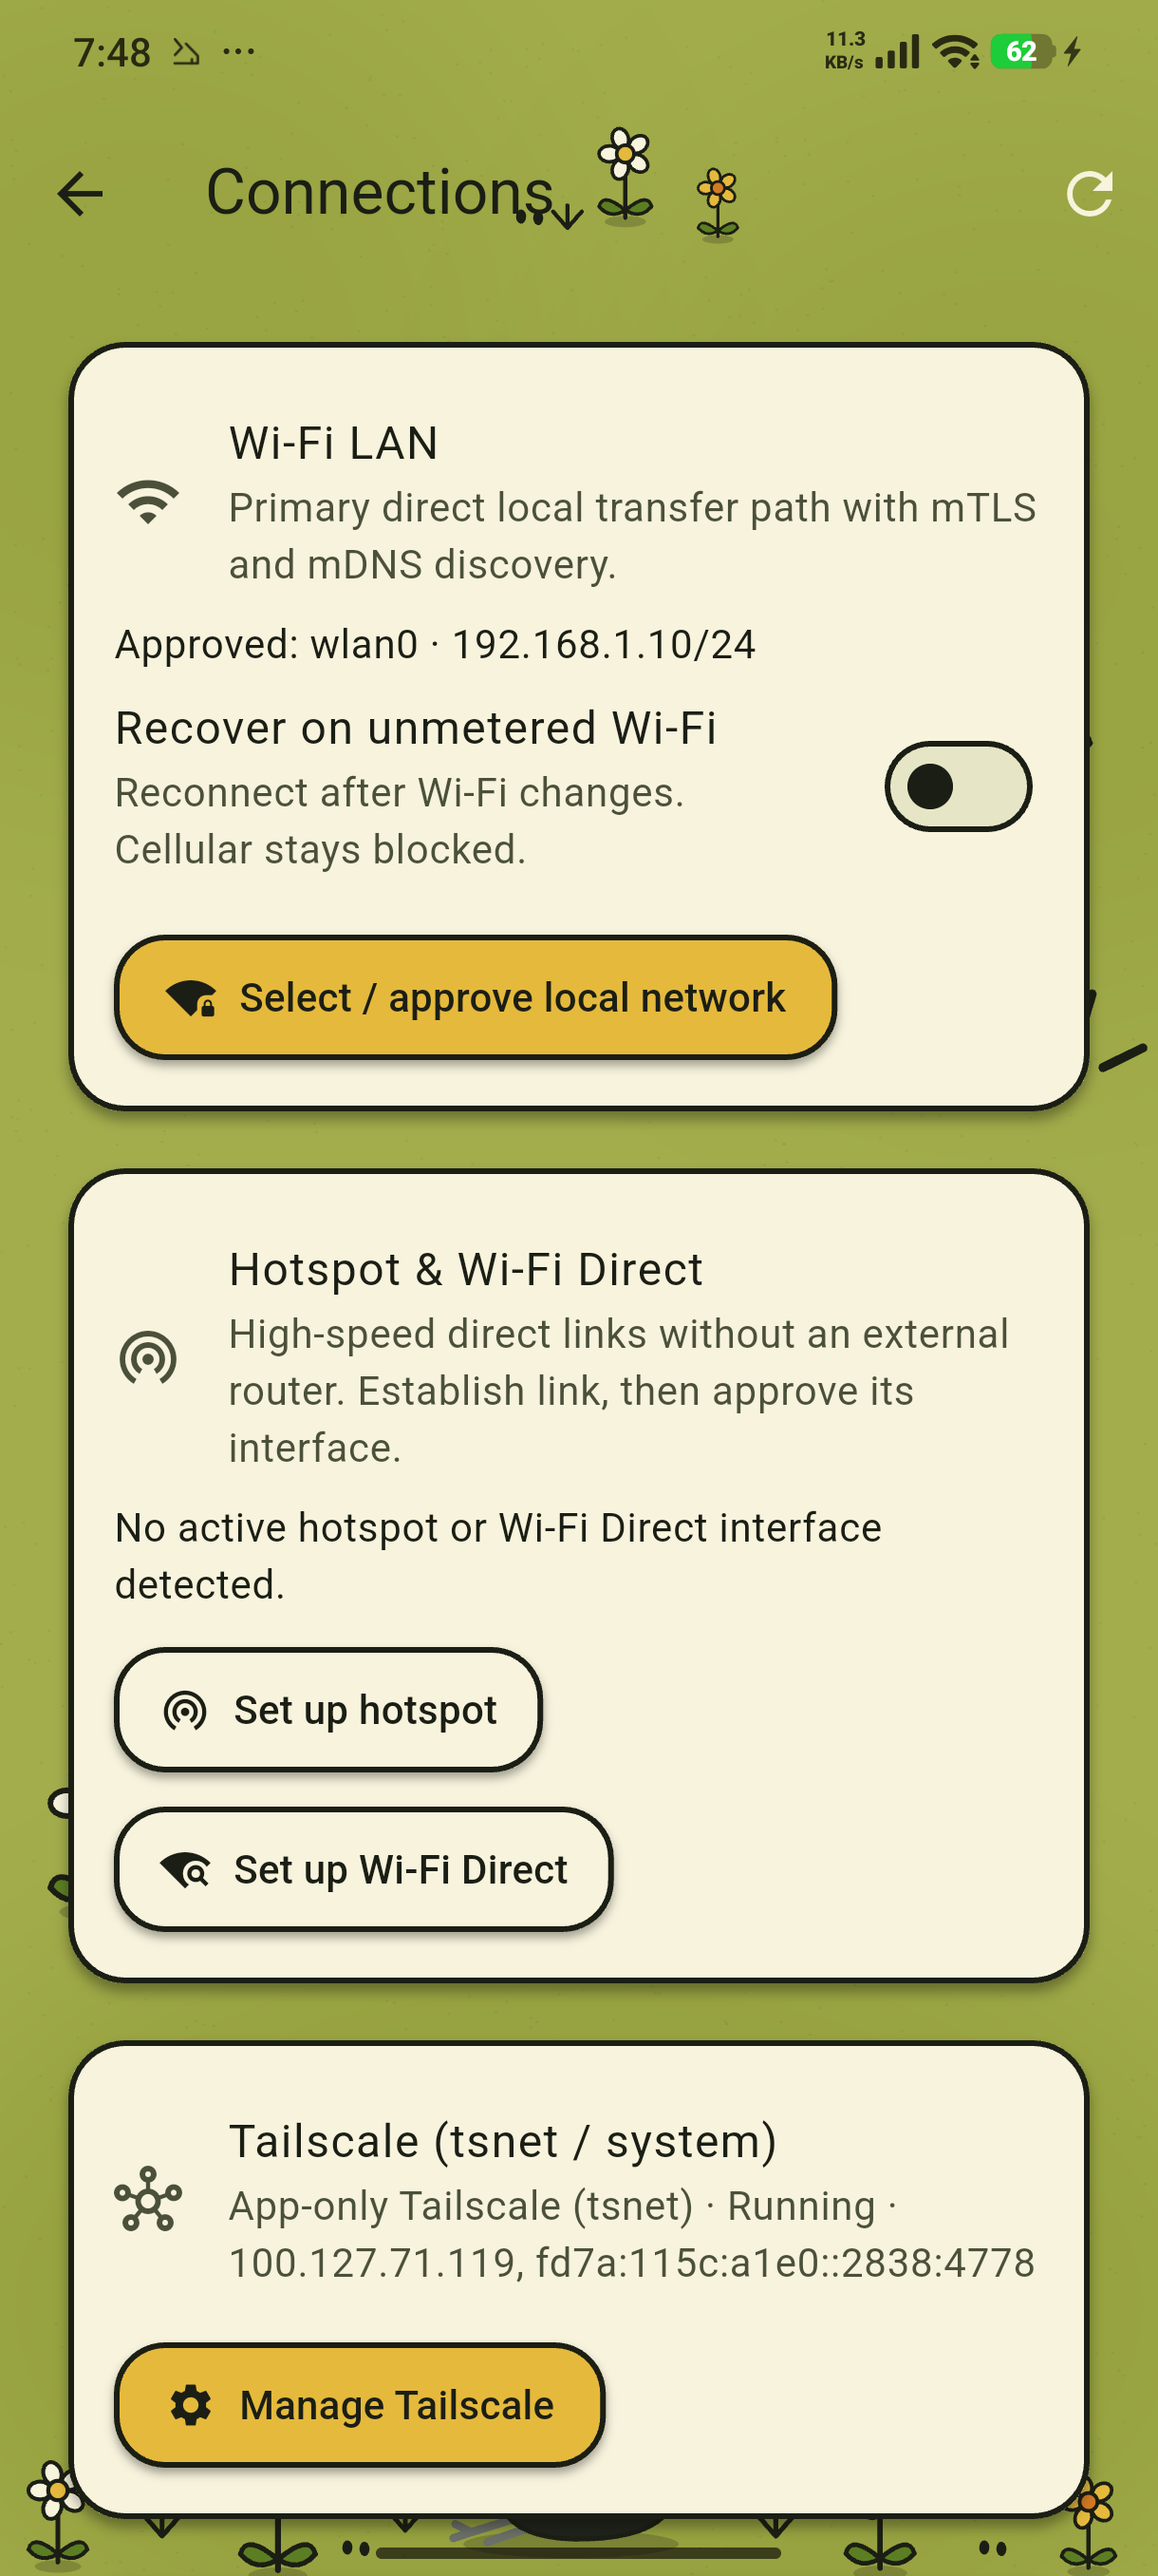
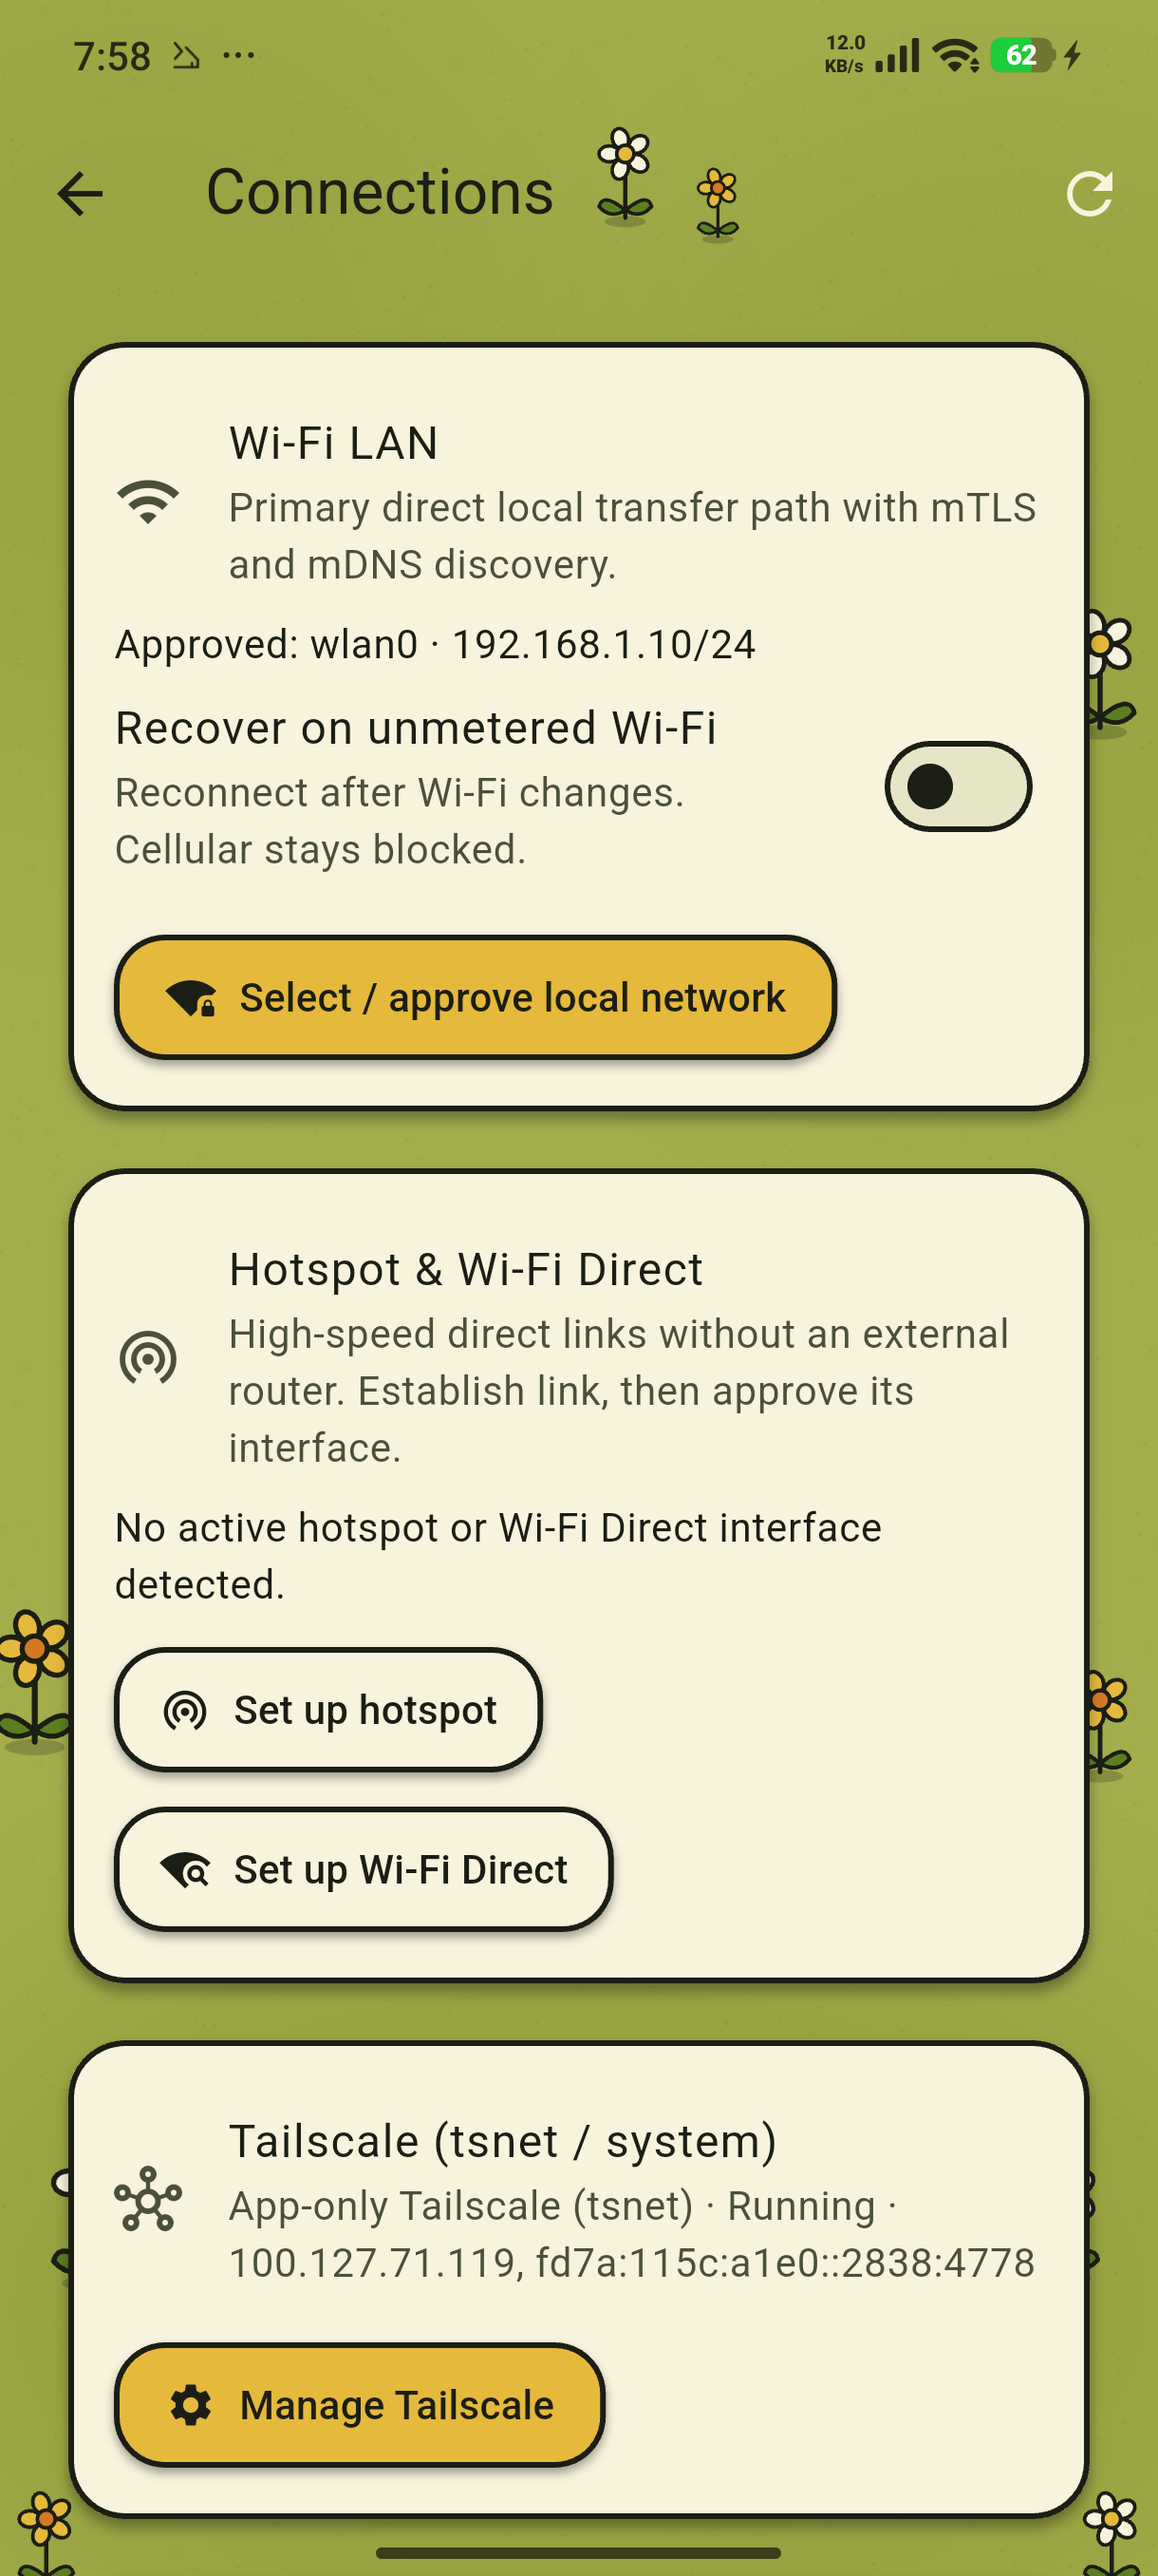
style(matte): keep flowers/bird strictly on background above bottombar with no foreground list widgets or arrows

diff --git a/app/lib/features/appearance.dart b/app/lib/features/appearance.dart
@@ -38,20 +38,6 @@ class AppearanceSurface extends StatelessWidget {
   );
 }
 
-/// Unobstructed illustrated meadow footer for the matte paper theme.
-class MatteMeadowFooter extends StatelessWidget {
-  const MatteMeadowFooter({super.key});
-  @override
-  Widget build(BuildContext context) => const Padding(
-    padding: EdgeInsets.only(top: 8),
-    child: SizedBox(
-      height: 104,
-      width: double.infinity,
-      child: CustomPaint(painter: _MatteMeadowPainter()),
-    ),
-  );
-}
-
 class _EdgeGlow extends CustomPainter {
   const _EdgeGlow({required this.isRed});
   final bool isRed;
@@ -344,48 +330,7 @@ class _MattePaperArt extends CustomPainter {
       canvas.drawLine(Offset(x, y), Offset(x + 0.9, y + 0.15), grain);
     }
 
-    // Crisp, unwashed botanicals with varied sizes behind scrollable lists/cards.
-    _drawGrassTuft(canvas, Offset(size.width * 0.14, size.height * 0.35), 0.95);
-    _drawGrassTuft(canvas, Offset(size.width * 0.85, size.height * 0.34), 0.85);
-    _drawGrassTuft(canvas, Offset(size.width * 0.16, size.height * 0.76), 1.0);
-    _drawGrassTuft(canvas, Offset(size.width * 0.82, size.height * 0.73), 0.9);
-    _drawDots(canvas, Offset(size.width * 0.90, size.height * 0.58));
-    _drawDots(canvas, Offset(size.width * 0.10, size.height * 0.57));
-
-    _drawFlower(
-      canvas,
-      Offset(size.width * 0.10, size.height * 0.28),
-      _MatteMeadowArt.gold,
-      0.78,
-    );
-    _drawFlower(
-      canvas,
-      Offset(size.width * 0.91, size.height * 0.26),
-      _MatteMeadowArt.cream,
-      0.92,
-    );
-    _drawFlower(
-      canvas,
-      Offset(size.width * 0.08, size.height * 0.70),
-      _MatteMeadowArt.cream,
-      1.06,
-    );
-    _drawFlower(
-      canvas,
-      Offset(size.width * 0.89, size.height * 0.67),
-      _MatteMeadowArt.gold,
-      0.72,
-    );
-    _drawComicRays(canvas, Offset(size.width * 0.92, size.height * 0.42), 0.42);
-    _drawCoolCrow(
-      canvas,
-      Offset(size.width * 0.84, size.height * 0.49),
-      0.74,
-    );
-
-    // Topbar flowers tucked cleanly in the open header band (no bird here).
-    _drawGrassTuft(canvas, Offset(size.width * 0.49, 80), 0.72);
-    _drawDots(canvas, Offset(size.width * 0.45, 76));
+    // Topbar background flowers tucked in the open header band.
     _drawFlower(
       canvas,
       Offset(size.width * 0.54, 54),
@@ -399,40 +344,65 @@ class _MattePaperArt extends CustomPainter {
       0.50,
     );
 
-    // Bottombar meadow strip with varied flowers and a single full-sized bird.
-    final bottomGround = size.height - 8;
-    _drawGrassTuft(canvas, Offset(size.width * 0.14, bottomGround - 6), 0.85);
-    _drawGrassTuft(canvas, Offset(size.width * 0.35, bottomGround - 8), 0.80);
-    _drawGrassTuft(canvas, Offset(size.width * 0.67, bottomGround - 6), 0.85);
-    _drawDots(canvas, Offset(size.width * 0.30, bottomGround - 2));
-    _drawDots(canvas, Offset(size.width * 0.85, bottomGround - 2));
-
+    // Outer-edge background flowers framing lists without crossing list text.
     _drawFlower(
       canvas,
-      Offset(size.width * 0.05, bottomGround - 22),
-      _MatteMeadowArt.cream,
-      0.74,
-    );
-    _drawFlower(
-      canvas,
-      Offset(size.width * 0.24, bottomGround - 26),
-      _MatteMeadowArt.gold,
-      0.94,
-    );
-    _drawFlower(
-      canvas,
-      Offset(size.width * 0.76, bottomGround - 24),
+      Offset(size.width * 0.95, size.height * 0.25),
       _MatteMeadowArt.cream,
       0.86,
     );
     _drawFlower(
       canvas,
-      Offset(size.width * 0.94, bottomGround - 18),
+      Offset(size.width * 0.03, size.height * 0.64),
+      _MatteMeadowArt.gold,
+      0.96,
+    );
+    _drawFlower(
+      canvas,
+      Offset(size.width * 0.95, size.height * 0.66),
+      _MatteMeadowArt.gold,
+      0.74,
+    );
+
+    // Background flowers and single bird perched cleanly above the bottom bar.
+    final aboveBottom = size.height - 118;
+    _drawFlower(
+      canvas,
+      Offset(size.width * 0.08, aboveBottom - 20),
+      _MatteMeadowArt.cream,
+      0.98,
+    );
+    _drawFlower(
+      canvas,
+      Offset(size.width * 0.19, aboveBottom - 10),
+      _MatteMeadowArt.gold,
+      0.76,
+    );
+    _drawFlower(
+      canvas,
+      Offset(size.width * 0.92, aboveBottom - 16),
+      _MatteMeadowArt.cream,
+      0.82,
+    );
+    _drawCoolCrow(
+      canvas,
+      Offset(size.width * 0.78, aboveBottom - 14),
+      0.74,
+    );
+
+    // Bottom corner flowers framing the navigation bar (no bird inside bottom bar).
+    _drawFlower(
+      canvas,
+      Offset(size.width * 0.04, size.height - 20),
       _MatteMeadowArt.gold,
       0.68,
     );
-    _drawComicRays(canvas, Offset(size.width * 0.58, bottomGround - 48), 0.42);
-    _drawCoolCrow(canvas, Offset(size.width * 0.50, bottomGround - 20), 0.70);
+    _drawFlower(
+      canvas,
+      Offset(size.width * 0.96, size.height - 20),
+      _MatteMeadowArt.cream,
+      0.68,
+    );
   }
 
   @override
@@ -444,67 +414,6 @@ abstract final class _MatteMeadowArt {
   static const cream = Color(0xfff7f3dd);
   static const gold = Color(0xffe5b93c);
   static const leaf = Color(0xff5c7e22);
-}
-
-class _MatteMeadowPainter extends CustomPainter {
-  const _MatteMeadowPainter();
-
-  @override
-  void paint(Canvas canvas, Size size) {
-    final groundY = size.height - 16;
-    _drawGrassTuft(canvas, Offset(size.width * 0.28, groundY - 10), 1.0);
-    _drawGrassTuft(canvas, Offset(size.width * 0.52, groundY - 18), 0.9);
-    _drawGrassTuft(canvas, Offset(size.width * 0.72, groundY - 14), 0.95);
-    _drawDots(canvas, Offset(size.width * 0.16, groundY - 4));
-    _drawDots(canvas, Offset(size.width * 0.84, groundY - 2));
-
-    _drawFlower(
-      canvas,
-      Offset(size.width * 0.09, groundY - 42),
-      _MatteMeadowArt.cream,
-      1.08,
-    );
-    _drawFlower(
-      canvas,
-      Offset(size.width * 0.20, groundY - 20),
-      _MatteMeadowArt.gold,
-      0.80,
-    );
-    _drawFlower(
-      canvas,
-      Offset(size.width * 0.80, groundY - 24),
-      _MatteMeadowArt.cream,
-      0.92,
-    );
-    _drawFlower(
-      canvas,
-      Offset(size.width * 0.91, groundY - 40),
-      _MatteMeadowArt.gold,
-      1.04,
-    );
-  }
-
-  @override
-  bool shouldRepaint(covariant _MatteMeadowPainter oldDelegate) => false;
-}
-
-void _drawGrassTuft(Canvas canvas, Offset base, double scale) {
-  final p = Paint()
-    ..color = _MatteMeadowArt.ink
-    ..strokeWidth = 2.0 * scale
-    ..strokeCap = StrokeCap.round;
-  canvas.drawLine(base, base + Offset(-7 * scale, -8 * scale), p);
-  canvas.drawLine(base, base + Offset(0, -11 * scale), p);
-  canvas.drawLine(base, base + Offset(7 * scale, -8 * scale), p);
-}
-
-void _drawDots(Canvas canvas, Offset at) {
-  final p = Paint()..color = _MatteMeadowArt.ink;
-  canvas.drawOval(Rect.fromCenter(center: at, width: 3.5, height: 5), p);
-  canvas.drawOval(
-    Rect.fromCenter(center: at + const Offset(6, 0.5), width: 3.5, height: 5),
-    p,
-  );
 }
 
 void _drawFlower(Canvas canvas, Offset center, Color petalColor, double s) {
@@ -653,20 +562,6 @@ void _drawCoolCrow(Canvas canvas, Offset center, double s) {
   canvas.drawLine(const Offset(13, -26), const Offset(16, -21), shine);
   canvas.drawLine(const Offset(27, -25), const Offset(30, -20), shine);
 
-  canvas.restore();
-}
-
-void _drawComicRays(Canvas canvas, Offset origin, double tilt) {
-  final p = Paint()
-    ..color = _MatteMeadowArt.ink
-    ..strokeWidth = 3.2
-    ..strokeCap = StrokeCap.round;
-  canvas.save();
-  canvas.translate(origin.dx, origin.dy);
-  canvas.rotate(tilt);
-  canvas.drawLine(const Offset(-14, -10), const Offset(-26, -22), p);
-  canvas.drawLine(const Offset(-2, -16), const Offset(-4, -32), p);
-  canvas.drawLine(const Offset(10, -10), const Offset(20, -22), p);
   canvas.restore();
 }
 

diff --git a/app/lib/main.dart b/app/lib/main.dart
@@ -603,8 +603,6 @@ class _BridgeHomeState extends State<BridgeHome> {
       const Text(
         'Pulls are one-time downloads. They never register a folder for synchronization.',
       ),
-      if (Theme.of(context).scaffoldBackgroundColor == Colors.transparent)
-        const MatteMeadowFooter(),
     ],
   );
   Widget devices() => ListView(
@@ -645,8 +643,6 @@ class _BridgeHomeState extends State<BridgeHome> {
           ),
         ),
       ],
-      if (Theme.of(context).scaffoldBackgroundColor == Colors.transparent)
-        const MatteMeadowFooter(),
     ],
   );
   List<Widget> peerCards() => peers
@@ -743,8 +739,6 @@ class _BridgeHomeState extends State<BridgeHome> {
           Text(title, style: Theme.of(context).textTheme.headlineSmall),
           const SizedBox(height: 12),
           Text(detail, textAlign: TextAlign.center),
-          if (Theme.of(context).scaffoldBackgroundColor == Colors.transparent)
-            const MatteMeadowFooter(),
         ],
       ),
     ),

diff --git a/prgress.md b/prgress.md
@@ -8,7 +8,7 @@
   - Termux Home SAF grant selected via `Termux:Launcher` (`com.termux.documents` -> `home`).
   - Local file manager verified on POCO: live text preview refresh (`LIVE version one` -> `LIVE version two`), `New folder` (`local-move-target`), Move with `excluded-cache` exclusion (`keep.txt` `a4c145116346834c` + `space λ.txt` `4d9e135688bb875a` moved, `excluded-cache/large.tmp` `dfc21015d1daf3fc` kept on source), no-overwrite denial (`Destination already exists; overwrite denied`), and return copy to `Termux Home` (`docs/test-evidence/poco-local-file-manager.json`).
   - Remote SAF & Termux Home serving verified over Wi-Fi LAN (`192.168.1.10` ↔ `192.168.1.23`): `roots`, `saf` 3-file pull (8,388,652 B, `manifest_xxh64` `98250f3829e05885`), `termux_home` Unicode listing (`space λ.txt`), remote `preview`, pull (`a4c145116346834c`, `4d9e135688bb875a`), and exclusion pull (`live.txt` only, `02e798559588a8b1`) in `docs/test-evidence/poco-remote-documents-serving.json`. Temporary `Laptop docs check` peer revoked and removed from phone afterward.
-  - Matte paper theme updated (`app/lib/features/appearance.dart`) with unwashed, full-color flowers of varied sizes and two naturally sized birds (none in topbar, one behind lists on the right, one in the bottombar meadow) across all transparent screens; visually verified on installed release APK (`docs/test-evidence/poco-matte-{home,connections,settings,file-manager}.png`).
-  - Broad verification & builds: native Termux `go test ./...` + `go vet ./...` + `bridge-agent`/`bridge-cli` (`9010261b5cd165bd`, `072c56c7b71c075f`), Linux `gofmt` + `go vet` + `go test -race ./...`, `flutter analyze` (0 issues), `flutter test` (9/9 pass), `apksigner verify` PASS, `devicebridge.apk` (27,369,424 B, XXH64 `81c0eb9ed35cea21`) installed & target-verified on POCO (`Installed target xxhsum PASS: 81c0eb9ed35cea21`).
+  - Matte paper theme updated (`app/lib/features/appearance.dart`, `app/lib/main.dart`): removed foreground `MatteMeadowFooter` widgets and arrow-like grass/ray strokes; all flowers and the single bird above the bottom bar render strictly on the background without any overlay (`docs/test-evidence/poco-matte-{home,connections,settings,file-manager}.png`).
+  - Broad verification & builds: native Termux `go test ./...` + `go vet ./...` + `bridge-agent`/`bridge-cli` (`9010261b5cd165bd`, `072c56c7b71c075f`), Linux `gofmt` + `go vet` + `go test -race ./...`, `flutter analyze` (0 issues), `flutter test` (9/9 pass), `apksigner verify` PASS, `devicebridge.apk` (27,368,532 B, XXH64 `bb902c2df2c48310`) installed & target-verified on POCO (`Installed target xxhsum PASS: bb902c2df2c48310`).
 - **Remaining**: remote uploads/deletes (awaiting write-grant contract), M3–M8, hotspot/Wi-Fi Direct physical link-switch E2E.
 - **Cleanup**: removed temporary `Laptop docs check` peer, removed ADB forward `tcp:18022` (at closeout), no stray laptop agents or UFW rules left active.

diff --git a/docs/IMPLEMENTATION_STATUS.md b/docs/IMPLEMENTATION_STATUS.md
@@ -59,8 +59,8 @@ The physical CLI folder command transferred 4,194,335 bytes in 4.098625 seconds 
 
 ## Artifacts and cleanup
 
-- Development-signed release APK: `artifacts/android-arm64/devicebridge.apk`, 27,369,424 bytes, XXH64 `81c0eb9ed35cea21` (`apksigner verify` PASS; includes `libbridge_cli.so` XXH64 `4af4d885660d1c0b`, `libbridge_agent.so`, `libbridge_tailnet.so` XXH64 `686c8750c0942901`, and `libbridge_wg.so` XXH64 `73eec00d55a68940`). Installed (`Installed target xxhsum PASS: 81c0eb9ed35cea21`) and visually verified on physical POCO `JBKJF6JFAAIZUGP7` (`poco-matte-home.png`, `poco-matte-connections.png`, `poco-matte-settings.png`, `poco-matte-file-manager.png`). Debug APK: `artifacts/android-arm64/devicebridge-debug.apk` (94,030,564 bytes, XXH64 `d94c2b0416ead249`).
-- Linux GUI bundle: `app/build/linux/x64/release/bundle/`; packaged archive: `artifacts/linux/devicebridge-linux-x64.tar.gz` (30,026,412 bytes, XXH64 `2ec92a43ab866170`); Linux (`bridge-agent` `7ec32a0f776b6ccb`, `bridge-cli` `cd367186e7e6edbc`) and Termux (`bridge-agent` `9010261b5cd165bd`, `bridge-cli` `072c56c7b71c075f`) Go binaries. `artifacts/MANIFEST.json` and `docs/test-evidence/artifact-manifest.json` record XXH64 hashes.
+- Development-signed release APK: `artifacts/android-arm64/devicebridge.apk`, 27,368,532 bytes, XXH64 `bb902c2df2c48310` (`apksigner verify` PASS; includes `libbridge_cli.so` XXH64 `3042f26b7c73589e`, `libbridge_agent.so`, `libbridge_tailnet.so` XXH64 `cd8f9d5e759c4e48`, and `libbridge_wg.so` XXH64 `43c8da3a95f5b49a`). Installed (`Installed target xxhsum PASS: bb902c2df2c48310`) and visually verified on physical POCO `JBKJF6JFAAIZUGP7` (`poco-matte-home.png`, `poco-matte-connections.png`, `poco-matte-settings.png`, `poco-matte-file-manager.png`). Debug APK: `artifacts/android-arm64/devicebridge-debug.apk` (94,027,405 bytes, XXH64 `015ec2fc60988c65`).
+- Linux GUI bundle: `app/build/linux/x64/release/bundle/`; packaged archive: `artifacts/linux/devicebridge-linux-x64.tar.gz` (30,025,581 bytes, XXH64 `0b23732097fae007`); Linux (`bridge-agent` `efed32611d75cb27`, `bridge-cli` `50b11544ecc98ee9`) and Termux (`bridge-agent` `9010261b5cd165bd`, `bridge-cli` `072c56c7b71c075f`) Go binaries. `artifacts/MANIFEST.json` and `docs/test-evidence/artifact-manifest.json` record XXH64 hashes.
 - All experiment-owned laptop agents stopped. All temporary wlan0 TCP8731 rules (phone10.100.102.33 → laptop10.100.102.69 only) were deleted after baseline tests; no UFW rules were added in this session. No persistent device service was installed.
 - SAF retained only the test folder `DeviceBridge-Test-20261118T064118Z` with verified sample copies. Owned temporary UI XML is removed. Private test identities/state remain in ignored `.work/` and disposable phone snapshots for reproducibility.
 
